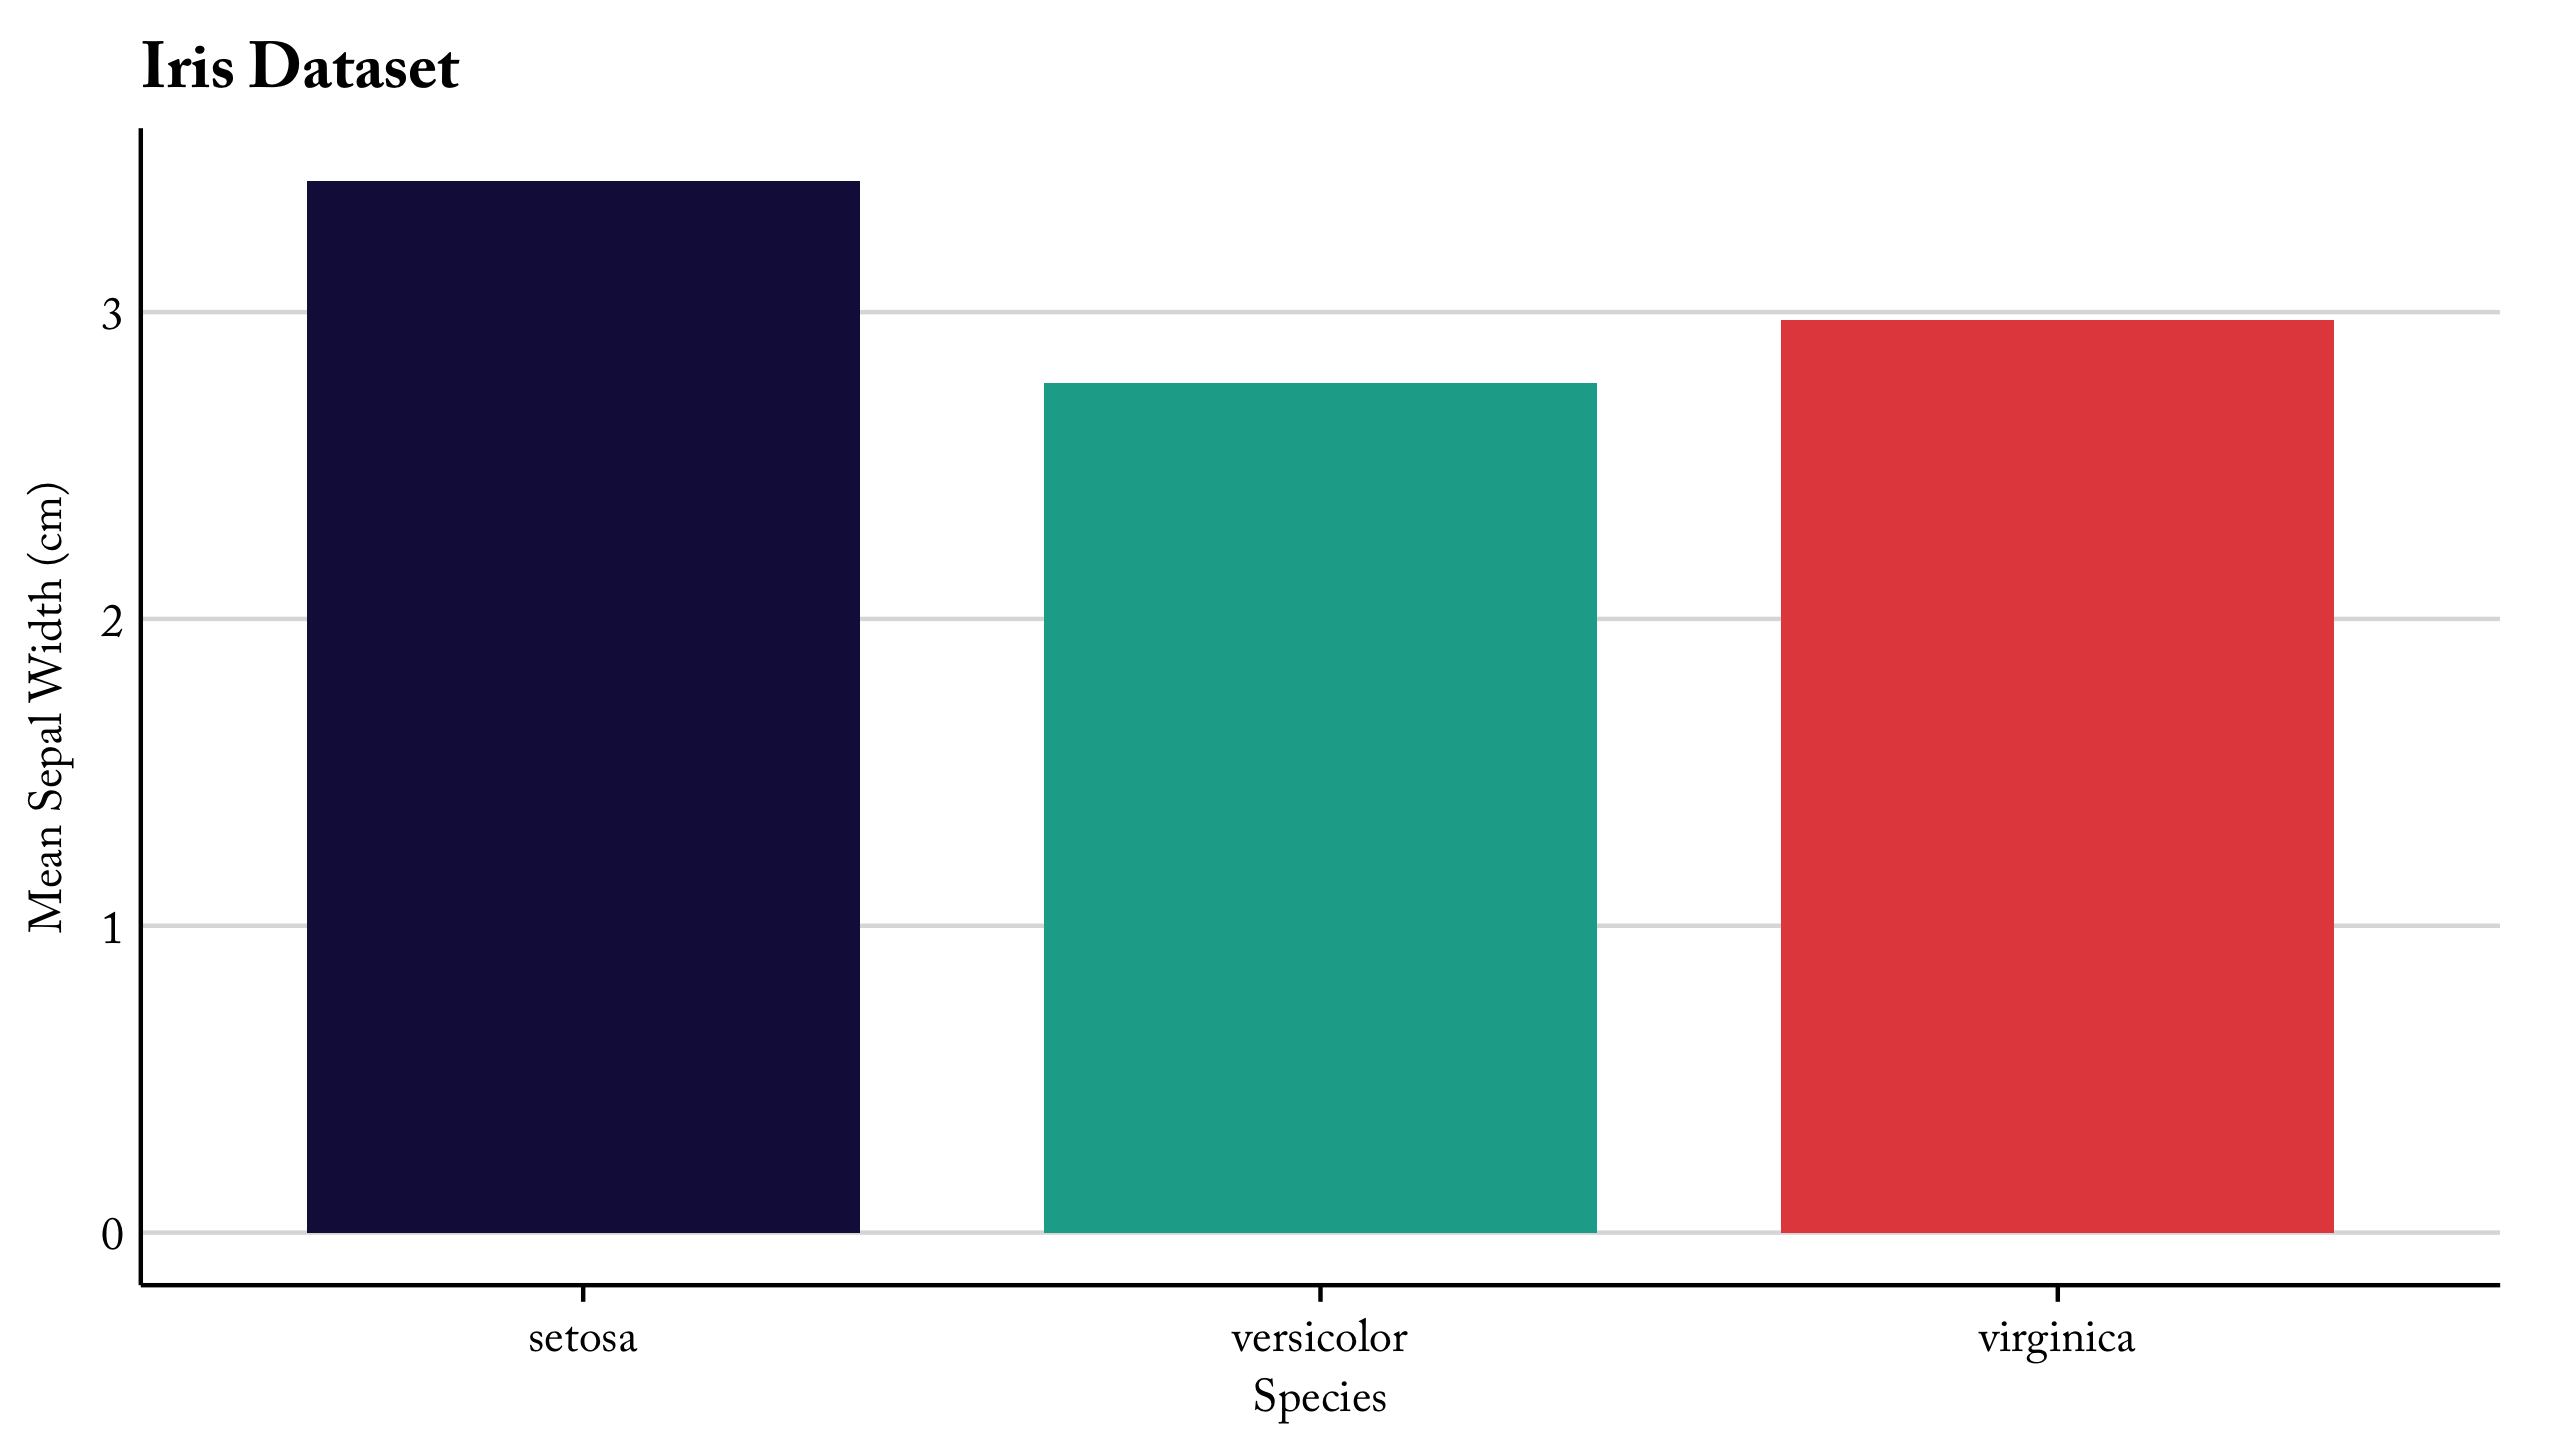
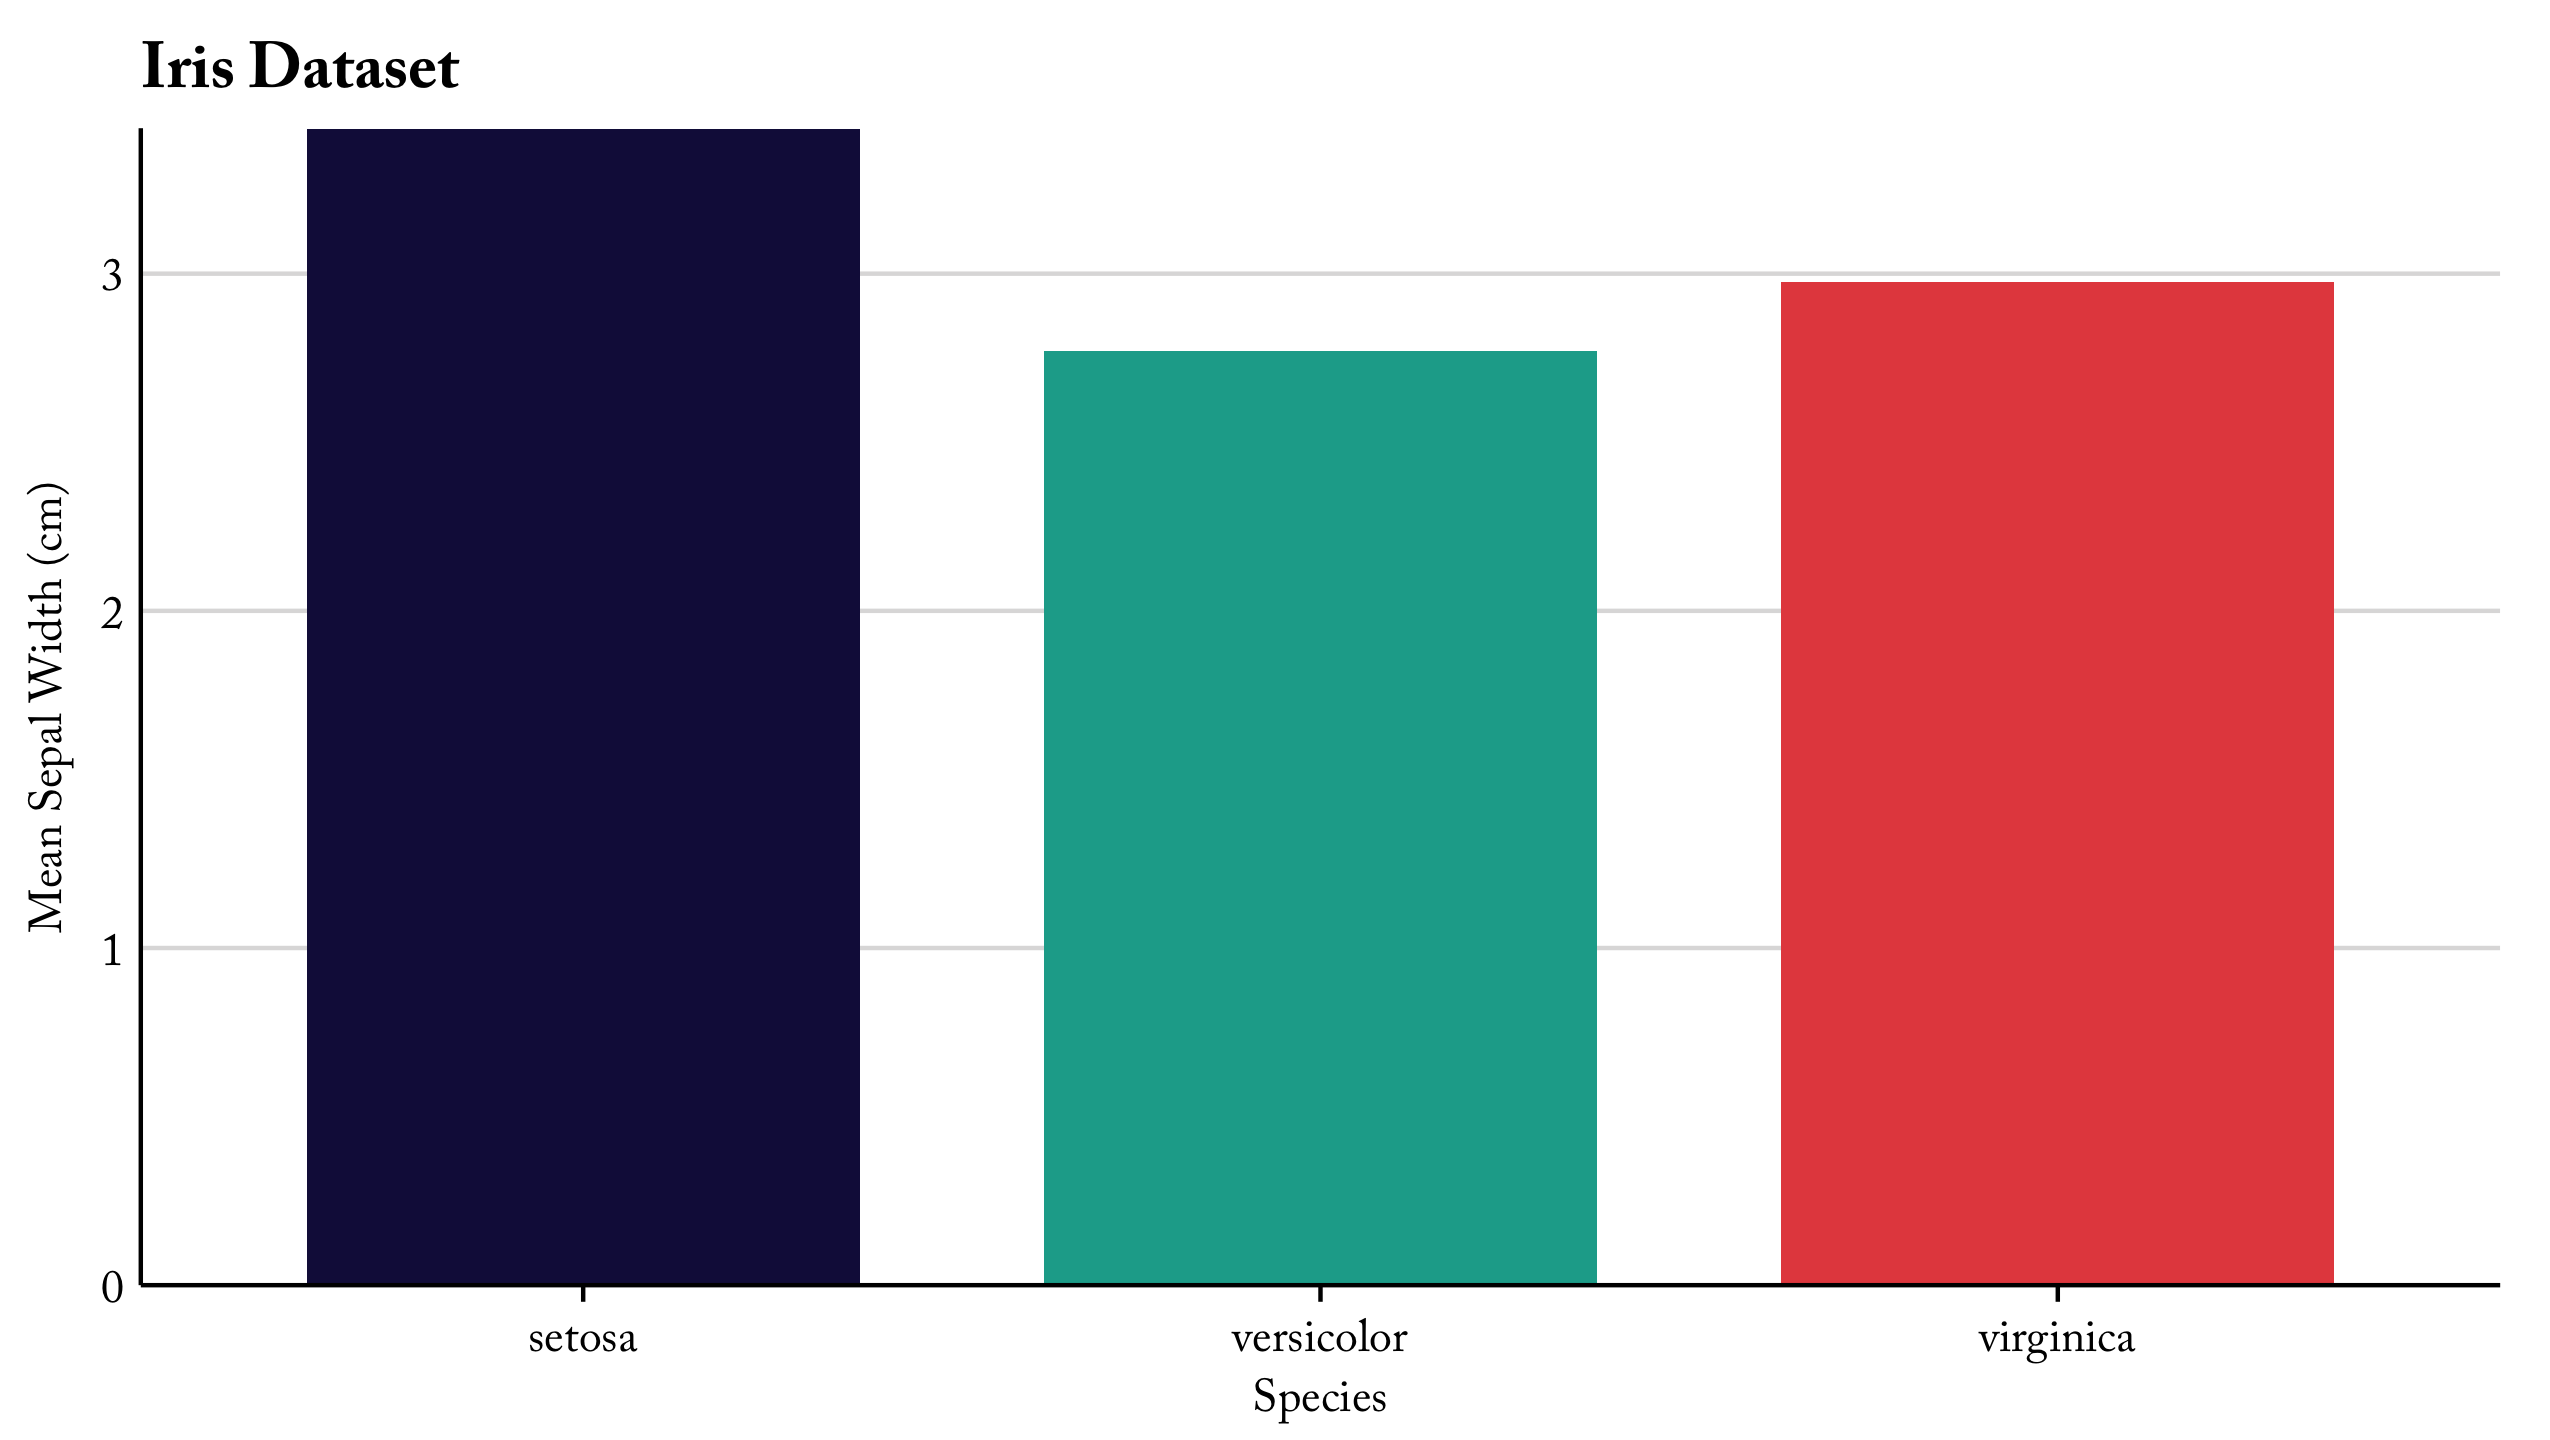
add expand_scale for prettier bar plots

diff --git a/README.md b/README.md
@@ -60,6 +60,7 @@ set_tpl_theme(style = "print", font = "adobe")
 
 ggplot(iris, aes(x=Species, y=Sepal.Width, fill=Species)) +
     geom_bar(stat="summary", fun.y="mean", show.legend = FALSE) +
+    scale_y_continuous(expand = expand_scale(mult = c(0, 0.001))) +
     labs(x="Species", y="Mean Sepal Width (cm)", fill="Species", title="Iris Dataset")
 ```
 
@@ -151,7 +152,12 @@ size. In other words, `scale = 2` will *double* the size of the logo.
 The logo defaults to 1/7th of the size of the plot.
 
 ``` r
-add_tpl_logo(tpl_plot_test(type = "barplot"), position = "top right", scale = 1.5)
+plot <- ggplot(iris, aes(x=Species, y=Sepal.Width, fill=Species)) +
+    geom_bar(stat="summary", fun.y="mean", show.legend = FALSE) +
+    scale_y_continuous(expand = expand_scale(mult = c(0, 0.001))) +
+    labs(x="Species", y="Mean Sepal Width (cm)", fill="Species", title="Iris Dataset")
+
+add_tpl_logo(plot, position = "top right", scale = 1.5)
 ```
 
 <img src="man/figures/README-unnamed-chunk-9-1.png" width="100%" style="display: block; margin: auto;" />
@@ -241,6 +247,7 @@ normal <- ggplot(diamonds) +
        x = "Cut",
        y = "Count",
        fill = "Clarity") +
+  scale_y_continuous(expand = expand_scale(mult = c(0, 0.001))) +
   theme(axis.text.x = element_text(angle = 45, hjust = 1))
 
 reversed <- normal +
@@ -307,7 +314,7 @@ settings and restores to ggplot defaults.
 undo_tpl_theme()
 ```
 
-    #> [1] "All TPL defaults were removed and the tplthemes package has been effectively detached from the current environment. To restore TPL defaults, use set_tpl_theme()."
+    #> [1] "All TPL defaults were removed and the tpltheme package has been effectively detached from the current environment. To restore TPL defaults, use set_tpl_theme()."
 
 ``` r
 ggplot(iris, aes(x=jitter(Sepal.Width), y=jitter(Sepal.Length), col=Species, size = Petal.Length)) +
